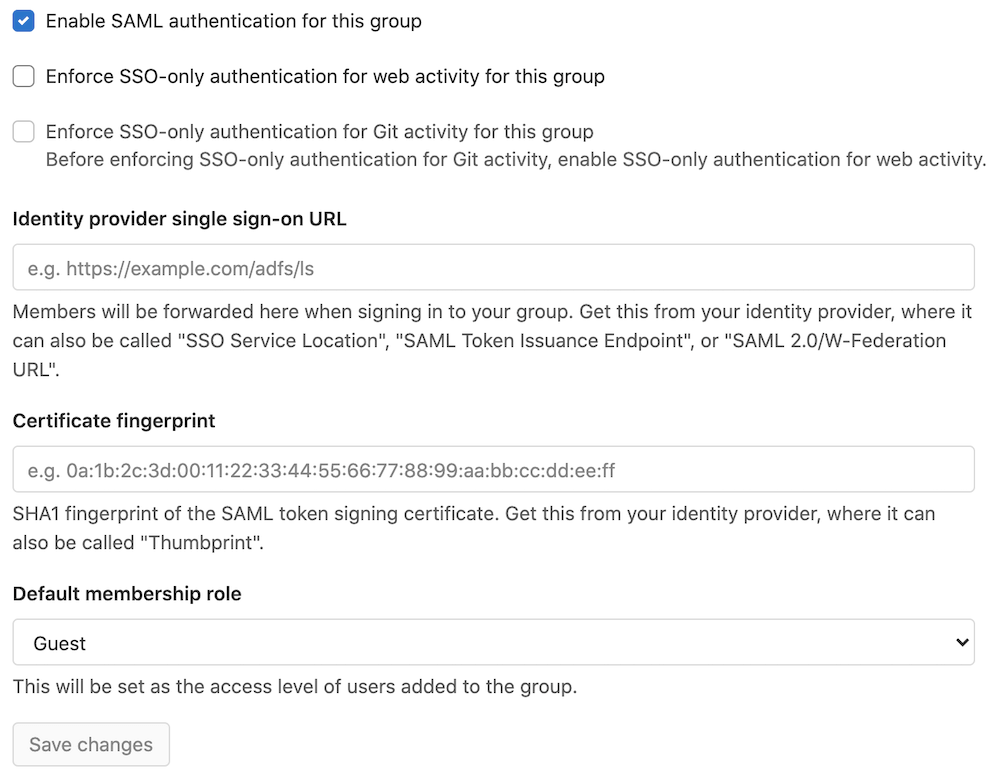
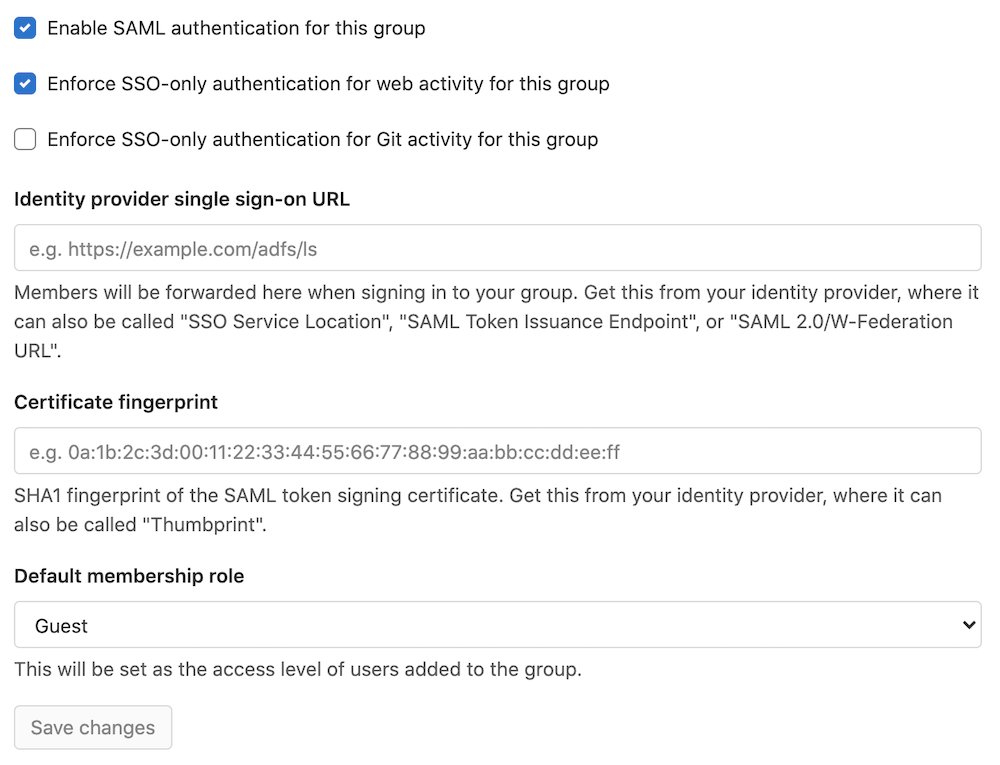
Add warning when SAML SSO checkbox is unchecked

diff --git a/ee/app/assets/javascripts/saml_providers/saml_settings_form.js b/ee/app/assets/javascripts/saml_providers/saml_settings_form.js
@@ -5,13 +5,18 @@ import { fixTitle } from '~/tooltips';
 
 const CALLOUT_SELECTOR = '.js-callout';
 const HELPER_SELECTOR = '.js-helper-text';
+const WARNING_SELECTOR = '.js-warning';
 
 function getHelperText(el) {
-  return el.parentNode.querySelector(HELPER_SELECTOR);
+  return el?.parentNode?.querySelector(HELPER_SELECTOR) || null;
+}
+
+function getWarning(el) {
+  return el?.parentNode?.querySelector(WARNING_SELECTOR) || null;
 }
 
 function getCallout(el) {
-  return el.closest('.form-group').querySelector(CALLOUT_SELECTOR);
+  return el?.closest('.form-group')?.querySelector(CALLOUT_SELECTOR) || null;
 }
 
 function toggleElementVisibility(el, show) {
@@ -55,6 +60,7 @@ export default class SamlSettingsForm {
       .map((setting) => ({
         ...setting,
         helperText: getHelperText(setting.el),
+        warning: getWarning(setting.el),
         callout: getCallout(setting.el),
       }));
 
@@ -127,7 +133,7 @@ export default class SamlSettingsForm {
     this.settings
       .filter((setting) => setting.dependsOn)
       .forEach((setting) => {
-        const { helperText, callout, el } = setting;
+        const { helperText, warning, callout, el } = setting;
         const isRelatedToggleOn = this.getValueWithDeps(setting.dependsOn);
 
         if (helperText) {
@@ -135,6 +141,10 @@ export default class SamlSettingsForm {
         }
 
         el.disabled = !isRelatedToggleOn;
+
+        if (warning) {
+          toggleElementVisibility(warning, !setting.value);
+        }
 
         if (callout) {
           toggleElementVisibility(callout, setting.value && isRelatedToggleOn);

diff --git a/ee/spec/frontend/saml_providers/saml_settings_form_spec.js b/ee/spec/frontend/saml_providers/saml_settings_form_spec.js
@@ -13,6 +13,8 @@ describe('SamlSettingsForm', () => {
 
   const findEnforcedGroupManagedAccountSetting = () =>
     samlSettingsForm.settings.find((s) => s.name === 'enforced-group-managed-accounts');
+  const findEnforcedSsoSetting = () =>
+    samlSettingsForm.settings.find((s) => s.name === 'enforced-sso');
   const findProhibitForksSetting = () =>
     samlSettingsForm.settings.find((s) => s.name === 'prohibited-outer-forks');
 
@@ -63,6 +65,16 @@ describe('SamlSettingsForm', () => {
     expect(findProhibitForksSetting().el.hasAttribute('disabled')).toBe(true);
     expect(findProhibitForksSetting().helperText.classList.contains('gl-display-none')).toBe(false);
     expect(findProhibitForksSetting().value).toBe(true);
+  });
+
+  it('correctly shows warning text when checkbox is unchecked', () => {
+    expect(findEnforcedSsoSetting().warning.classList.contains('gl-display-none')).toBe(true);
+
+    findEnforcedSsoSetting().el.checked = false;
+    samlSettingsForm.updateSAMLSettings();
+    samlSettingsForm.updateView();
+
+    expect(findEnforcedSsoSetting().warning.classList.contains('gl-display-none')).toBe(false);
   });
 
   it('correctly disables multiple dependent toggles', () => {

diff --git a/ee/spec/features/groups/saml_providers_spec.rb b/ee/spec/features/groups/saml_providers_spec.rb
@@ -57,6 +57,22 @@ RSpec.describe 'SAML provider settings' do
       expect(response_headers['Content-Type']).to have_content("application/xml")
     end
 
+    context '"Enforce SSO-only authentication for web activity for this group" checkbox' do
+      it 'is checked by default' do
+        visit group_saml_providers_path(group)
+
+        expect(find_field('Enforce SSO-only authentication for web activity for this group')).to be_checked
+      end
+
+      it 'displays warning if unchecked', :js do
+        visit group_saml_providers_path(group)
+
+        uncheck 'Enforce SSO-only authentication for web activity for this group'
+
+        expect(page).to have_content 'Warning - Enabling SSO enforcement can reduce security risks.'
+      end
+    end
+
     it 'allows creation of new provider' do
       visit group_saml_providers_path(group)
 
@@ -75,7 +91,7 @@ RSpec.describe 'SAML provider settings' do
     end
 
     context 'with existing SAML provider' do
-      let!(:saml_provider) { create(:saml_provider, group: group, prohibited_outer_forks: false) }
+      let!(:saml_provider) { create(:saml_provider, group: group, prohibited_outer_forks: false, enforced_sso: true) }
 
       it 'allows provider to be disabled', :js do
         visit group_saml_providers_path(group)
@@ -97,9 +113,10 @@ RSpec.describe 'SAML provider settings' do
       it 'updates the enforced sso setting', :js do
         visit group_saml_providers_path(group)
 
-        check 'Enforce SSO-only authentication for web activity for this group'
+        uncheck 'Enforce SSO-only authentication for web activity for this group'
 
-        expect { submit }.to change { saml_provider.reload.enforced_sso }.to(true)
+        expect { submit }.to change { saml_provider.reload.enforced_sso }.to(false)
+        expect(page).to have_content 'Warning - Enabling SSO enforcement can reduce security risks.'
       end
 
       context 'enforced_group_managed_accounts enabled', :js do
@@ -111,7 +128,6 @@ RSpec.describe 'SAML provider settings' do
         it 'updates the enforced_group_managed_accounts flag' do
           visit group_saml_providers_path(group)
 
-          check 'Enforce SSO-only authentication for web activity for this group'
           check 'Enforce users to have dedicated group-managed accounts for this group'
 
           expect { submit }.to change { saml_provider.reload.enforced_group_managed_accounts }.to(true)
@@ -120,7 +136,6 @@ RSpec.describe 'SAML provider settings' do
         it 'updates the prohibited_outer_forks flag' do
           visit group_saml_providers_path(group)
 
-          check 'Enforce SSO-only authentication for web activity for this group'
           check 'Enforce users to have dedicated group-managed accounts for this group'
           check 'Prohibit outer forks for this group'
 

diff --git a/ee/spec/frontend/fixtures/saml_providers.rb b/ee/spec/frontend/fixtures/saml_providers.rb
@@ -21,7 +21,7 @@ RSpec.describe Groups::SamlProvidersController, '(JavaScript fixtures)', type: :
   end
 
   it 'groups/saml_providers/show.html' do
-    create(:saml_provider, group: group)
+    create(:saml_provider, group: group, enforced_sso: true)
 
     get :show, params: { group_id: group }
 
